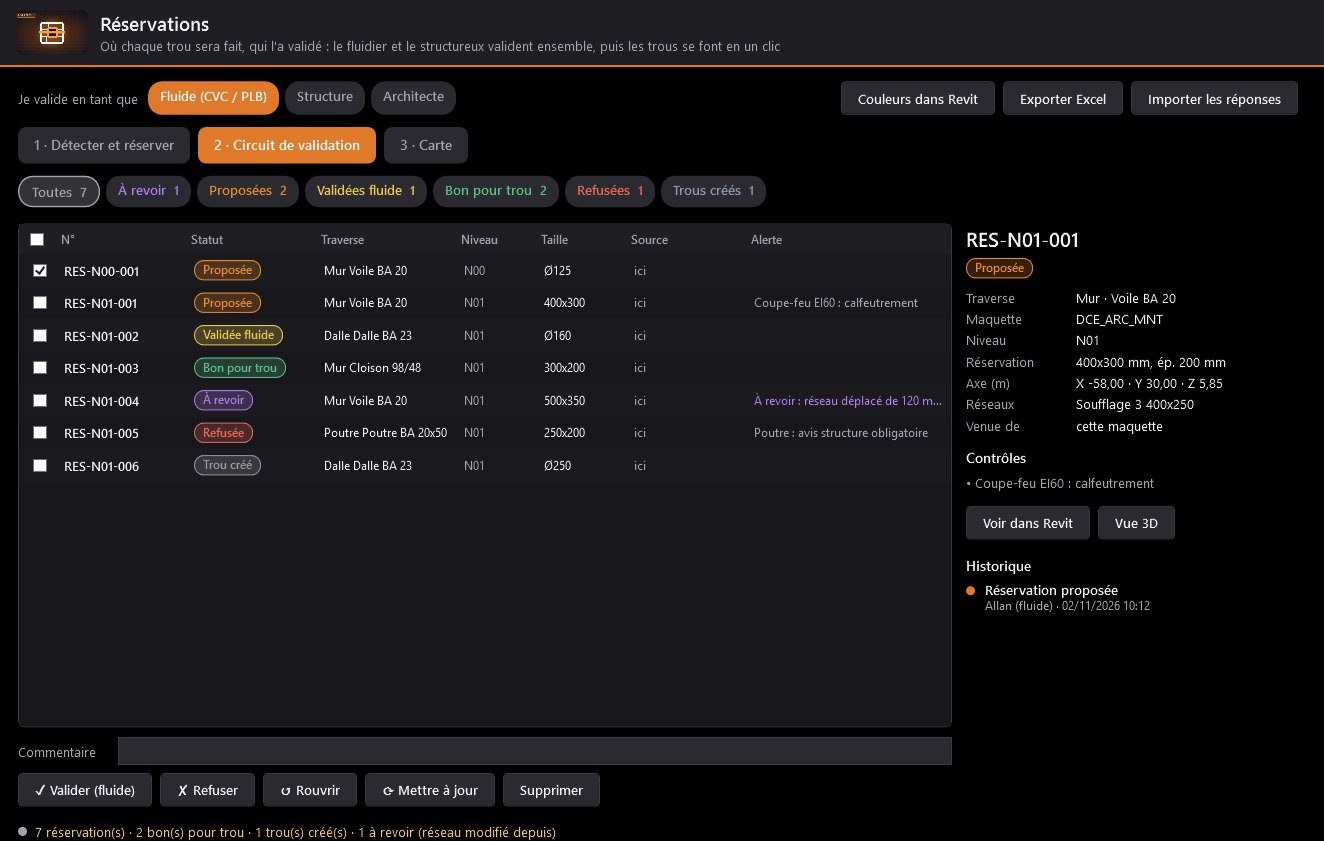
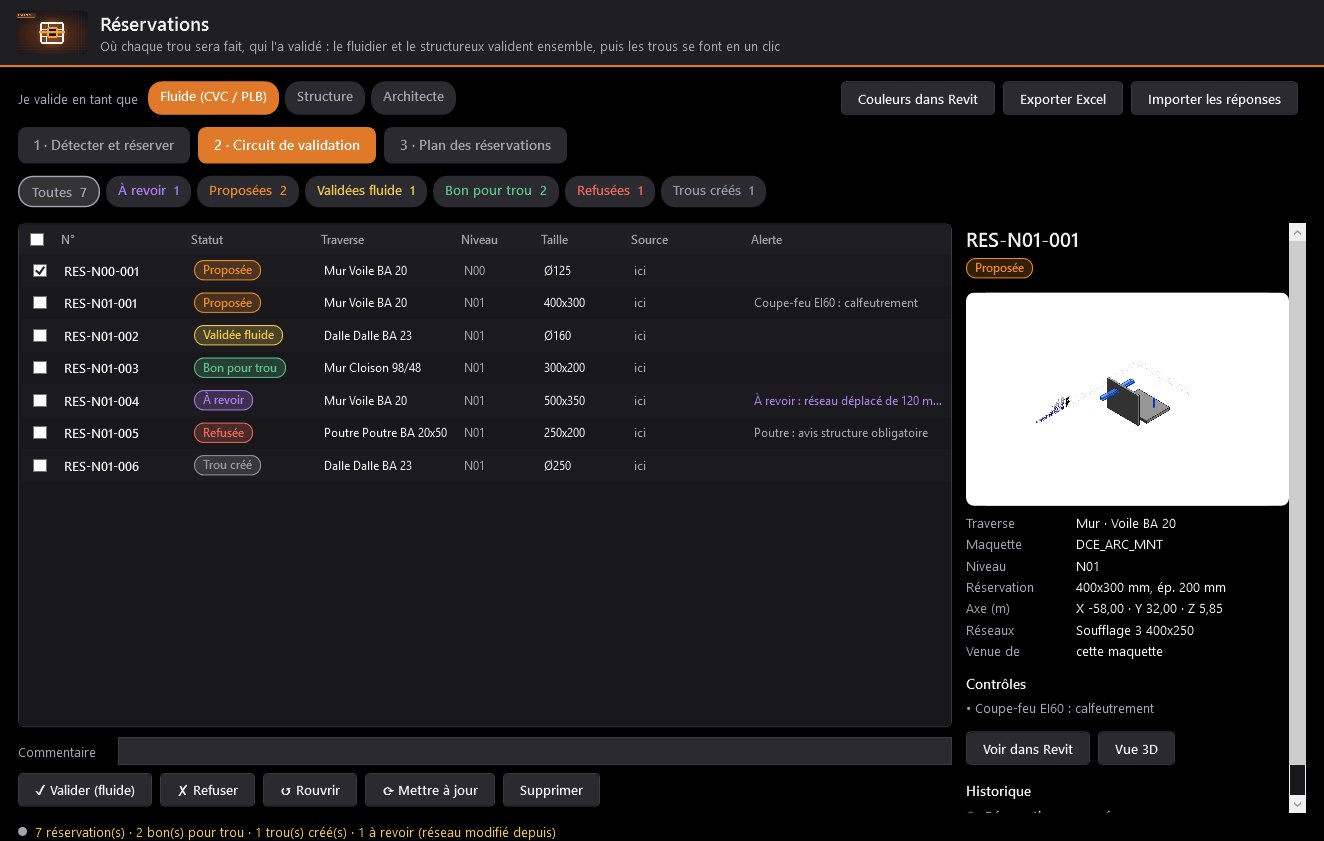
Site : les réservations étape par étape, en images
Claude-Session: https://claude.ai/code/session_01MHrNSVTBSYMzahvX5gKbVE

Changed region(s): [[0.7122, 0.2473, 0.9909, 0.9893], [0.7122, 0.8038, 0.898, 0.9584], [0.3097, 0.1237, 0.4335, 0.2164]]

diff --git a/index.html b/index.html
@@ -1450,6 +1450,18 @@ input::placeholder,textarea::placeholder{color:color-mix(in srgb,var(--muted) 85
 .abp .hero{padding:56px 0 34px}
 .abp section.s{padding:72px 0}
 .abp .abp-k2{color:var(--muted)}
+.abp .flux{display:flex;flex-wrap:wrap;align-items:center;gap:10px;margin:0 0 34px}
+.abp .flux span.st{font:600 14px var(--body);padding:7px 14px;border-radius:999px;border:1.5px solid}
+.abp .flux i{color:var(--dim);font-style:normal;font-size:18px}
+.abp .etapes5{display:grid;grid-template-columns:repeat(5,1fr);gap:16px}
+.abp .e5{background:var(--card);border:1px solid var(--line);border-radius:14px;overflow:hidden;display:flex;flex-direction:column}
+.abp .e5 .vis img{width:100%;aspect-ratio:4/3;object-fit:cover;object-position:top left;cursor:zoom-in;display:block;background:#fff}
+.abp .e5 div.t{padding:14px 16px 18px}
+.abp .e5 b{display:flex;align-items:center;gap:8px;font:700 18px var(--display);margin-bottom:6px}
+.abp .e5 b em{font-style:normal;display:grid;place-items:center;width:26px;height:26px;border-radius:8px;background:rgba(224,122,42,.18);color:var(--or);font-size:15px}
+.abp .e5 p{margin:0;color:var(--muted);font-size:14.5px;line-height:1.5}
+@media (max-width:1100px){.abp .etapes5{grid-template-columns:repeat(2,1fr)}}
+@media (max-width:600px){.abp .etapes5{grid-template-columns:1fr}}
 </style>
 <div class="abp">
 <section class="hero">
@@ -1517,6 +1529,27 @@ input::placeholder,textarea::placeholder{color:color-mix(in srgb,var(--muted) 85
       </div>
       <div class="vis"><img class="cap" src="files/allanbim/resa_carte.jpg" alt="Plan des réservations" data-t="Plan des réservations" data-d="Le plan du niveau (murs, pièces, réseaux) avec chaque réservation à sa place, en couleur par statut."><img class="mini" src="files/allanbim/resa_apercu.jpg" alt="Image Revit du trou" data-t="Aperçu Revit" data-d="La fiche montre le trou en 3D, exporté directement de Revit."></div>
     </article>
+
+    <div class="rv" style="margin:-40px 0 110px">
+      <span class="k">Les réservations, étape par étape</span>
+      <h3 style="font-size:30px;font-weight:800;margin:10px 0 16px">Du réseau au trou percé, sans perdre personne en route.</h3>
+      <div class="flux">
+        <span class="st" style="color:#F08C28;border-color:#F08C28">Proposée</span><i>→</i>
+        <span class="st" style="color:#F2C94C;border-color:#F2C94C">Validée fluide</span><i>→</i>
+        <span class="st" style="color:#5CC48A;border-color:#5CC48A">Bon pour trou</span><i>→</i>
+        <span class="st" style="color:#9A9AA6;border-color:#9A9AA6">Trou créé</span>
+        <span style="color:var(--dim);margin-left:14px">ou</span>
+        <span class="st" style="color:#F06A5A;border-color:#F06A5A">Refusée (avec le motif)</span>
+        <span class="st" style="color:#B07CF0;border-color:#B07CF0">À revoir (le réseau a bougé)</span>
+      </div>
+      <div class="etapes5">
+        <div class="e5"><div class="vis"><img src="files/allanbim/resa_detect_v.jpg" data-full="files/allanbim/resa_detect.jpg" alt="Détection des traversées" data-t="1 · Détecter" data-d="Toutes les traversées des réseaux dans les murs, dalles, toitures et poutres, avec la taille de réservation calculée."></div><div class="t"><b><em>1</em>Détecter</b><p>Allan BIM trouve où les gaines et canalisations traversent murs, dalles et poutres, et calcule chaque réservation (jeu + isolation). Tu coches ce que tu réserves.</p></div></div>
+        <div class="e5"><div class="vis"><img src="files/allanbim/resa_carte_v.jpg" data-full="files/allanbim/resa_carte.jpg" alt="Plan des réservations" data-t="2 · Voir sur le plan" data-d="Le plan du niveau avec chaque réservation à sa place, en couleur selon son statut."></div><div class="t"><b><em>2</em>Voir sur le plan</b><p>Chaque réservation apparaît sur le plan du niveau, à sa vraie place, avec les murs, les pièces et les réseaux autour.</p></div></div>
+        <div class="e5"><div class="vis"><img src="files/allanbim/resa_circuit_v.jpg" data-full="files/allanbim/resa_circuit.jpg" alt="Circuit de validation" data-t="3 · Faire valider" data-d="Le fluidier valide, le structureux ou l'architecte met « Bon pour trou » ou refuse avec un commentaire."></div><div class="t"><b><em>3</em>Faire valider</b><p>Le fluidier valide, la structure ou l'archi met « Bon pour trou » ou refuse en disant pourquoi. Tout est gardé dans l'historique.</p></div></div>
+        <div class="e5"><div class="vis"><img src="files/allanbim/resa_excel.jpg" alt="Export Excel" data-t="4 · Échanger par Excel" data-d="Le BE remplit la colonne Décision dans le fichier, on réimporte : les statuts se mettent à jour tout seuls."></div><div class="t"><b><em>4</em>Échanger par Excel</b><p>Pour un BE sans Revit : export Excel, il remplit « Décision » et « Commentaire », on réimporte et tout se met à jour.</p></div></div>
+        <div class="e5"><div class="vis"><img src="files/allanbim/resa_trous.jpg" alt="Trous créés dans Revit" data-t="5 · Percer en un clic" data-d="Les trous validés sont créés pour de vrai dans les murs et les dalles de la maquette."></div><div class="t"><b><em>5</em>Percer en un clic</b><p>Les réservations « Bon pour trou » deviennent de vrais trous dans les murs, dalles et toitures. Si un réseau bouge ensuite : « À revoir ».</p></div></div>
+      </div>
+    </div>
 
     <article class="phare rv">
       <div class="txt">
@@ -1674,7 +1707,7 @@ function ouvrir(src,t,d){ $("#ab-lbi").src=src; $("#ab-lbc").innerHTML=`<b>${t||
 R.addEventListener("click",e=>{
   const a=e.target.closest("a[data-ab]"); if(a){ e.preventDefault(); const t=R.querySelector(a.getAttribute("href")); if(t) t.scrollIntoView({behavior:"smooth"}); return; }
   const o=e.target.closest(".outil"); if(o){ ouvrir(F+(o.dataset.cap||("v_"+o.querySelector("img").src.split("v_")[1])),o.dataset.t,o.dataset.d); return; }
-  const i=e.target.closest(".vis img"); if(i) ouvrir(i.src,i.dataset.t,i.dataset.d);
+  const i=e.target.closest(".vis img"); if(i) ouvrir(i.dataset.full||i.src,i.dataset.t,i.dataset.d);
 });
 lb.onclick=()=>lb.classList.remove("on");
 addEventListener("keydown",e=>{ if(e.key==="Escape") lb.classList.remove("on"); });
